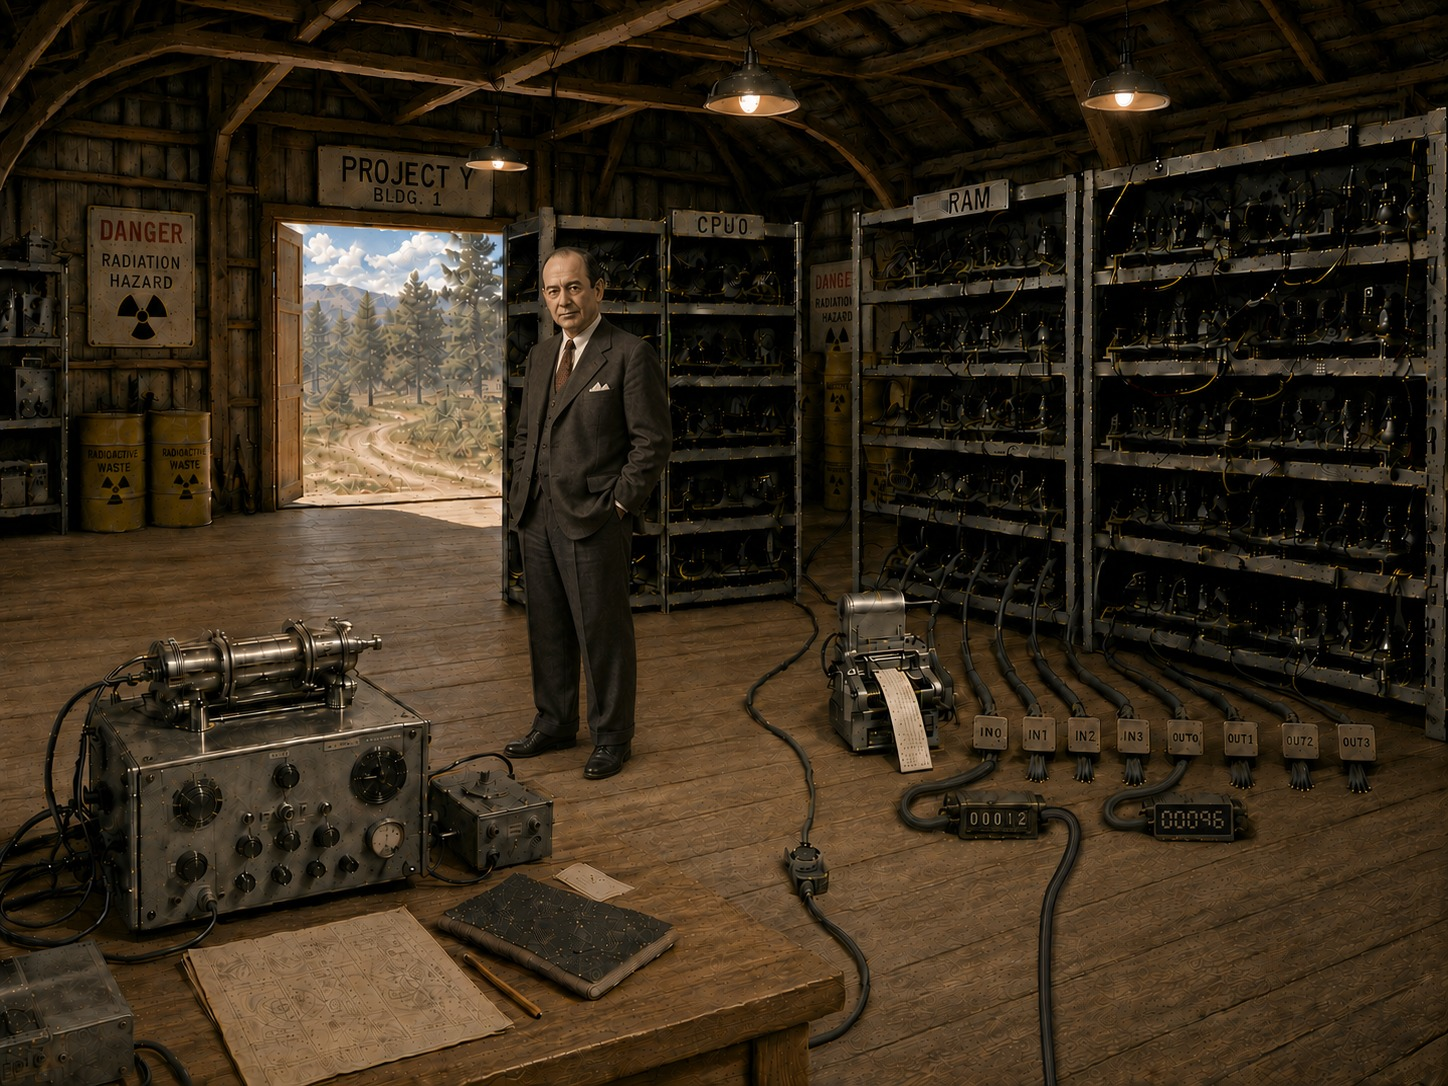
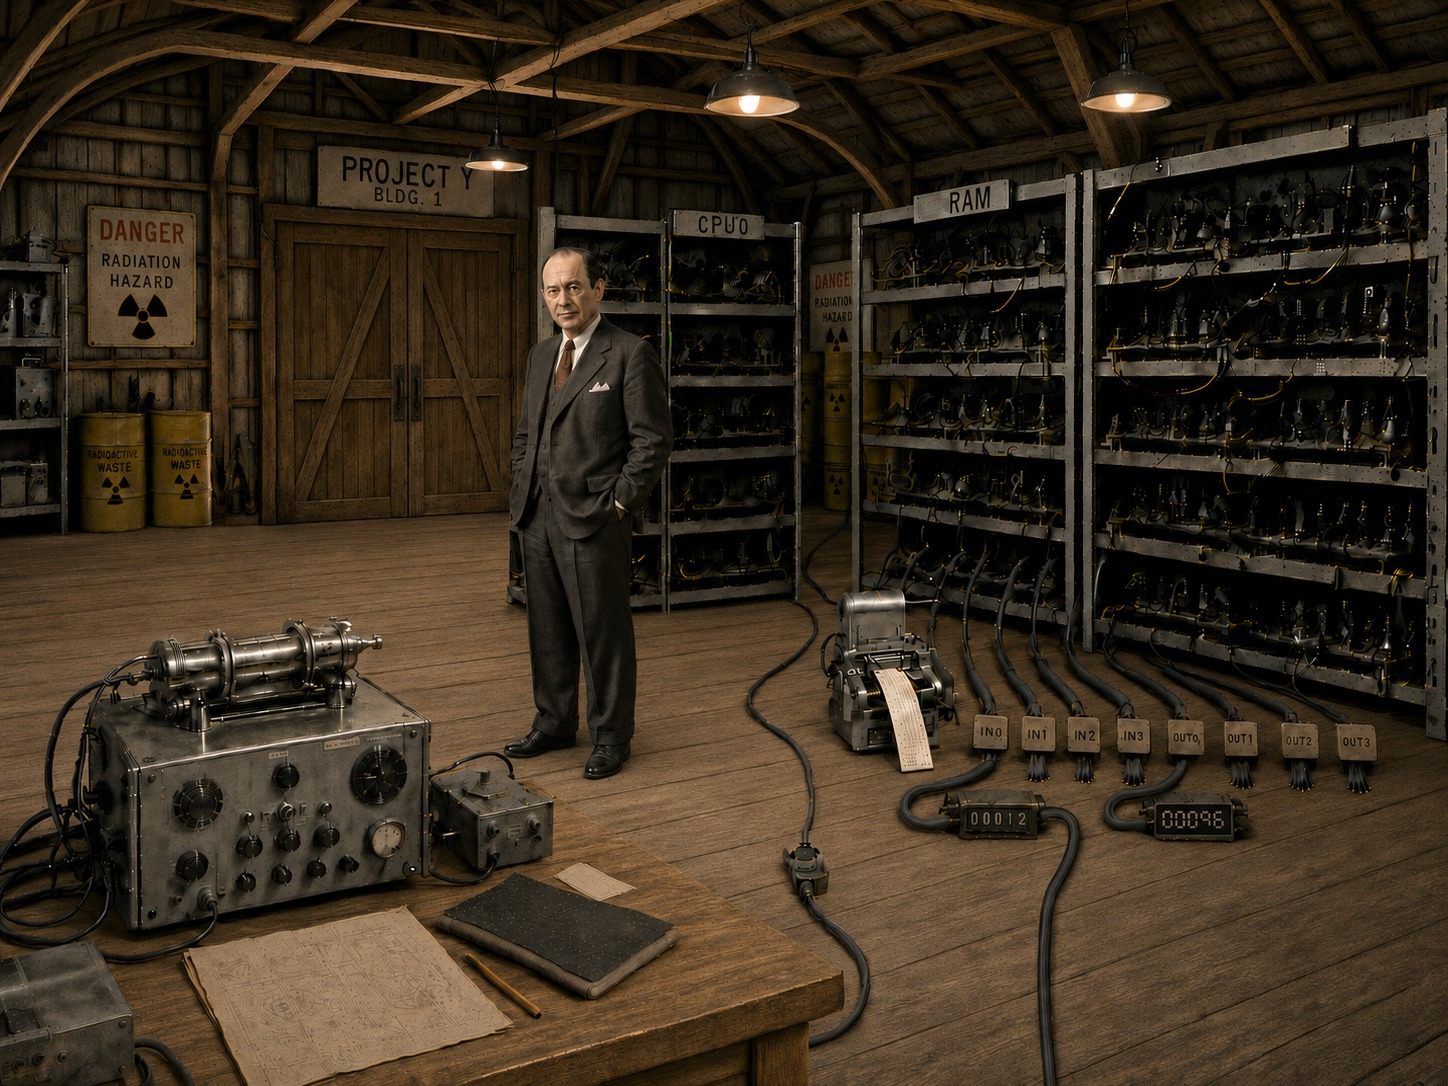
Release build: chapter 4.3's slide art updated, default pace back to step-by-step
- 245 (and 246, which shares its raster) take the redrawn hangar with the
  doors shut, so the whole of chapter 4 is consistent. The bubbles and their
  tails are unchanged and still clear von Neumann's face on the new art.
- DEFAULT_PACE flipped to "step" for the push, per the release routine.

Verified on the release build: the 4.3 task passes, its solution walks to
the closing slides, המשך is spent on the last one, and the keyboard carries
the story out of 3.6 into 4.1.

Claude-Session: https://claude.ai/code/session_01GXEdWPpe5FW6NXL8HuHPJg

diff --git a/index.html b/index.html
@@ -10,7 +10,7 @@
 </head>
 <body>
   <div id="app" class="app"></div>
-  <script src="js/data.js?v=v122-ch4-art-1" defer></script>
+  <script src="js/data.js?v=v123-release-1" defer></script>
   <script src="js/app-data.js?v=v614-more-explanations-1" defer></script>
   <script src="js/achievements-data.js?v=v11-prg43-achv-1" defer></script>
   <script src="js/achievement-icons.js?v=v9-prg43-icons-1" defer></script>
@@ -33,7 +33,7 @@
   <script src="js/splitter-resize.js?v=v1-splitter-drag-1" defer></script>
   <script src="js/rankings.js?v=v12-software-rankings-1" defer></script>
   <script src="assets/solutions/solutions.js?v=v28-computer0-json-3" defer></script>
-  <script src="js/app.js?v=v691-hotspot-key-1" defer></script>
+  <script src="js/app.js?v=v692-release-1" defer></script>
   <script src="js/warehouse-hotspots.js?v=v61-object-zones-1" defer></script>
   <script src="js/auth-config.js?v=v2-keys-1" defer></script>
   <script src="js/auth.js?v=v8-design-dim-1" defer></script>

diff --git a/js/app.js b/js/app.js
@@ -1611,7 +1611,7 @@
   // Project policy: AFTER a push to main, flip this to "all" in the dev branch
   // for free testing; then restore "step" right before the next push to main.
   // This one constant is the flip point.
-  const DEFAULT_PACE = "all";
+  const DEFAULT_PACE = "step";
 
   const defaultState = {
     screen: "menu",
